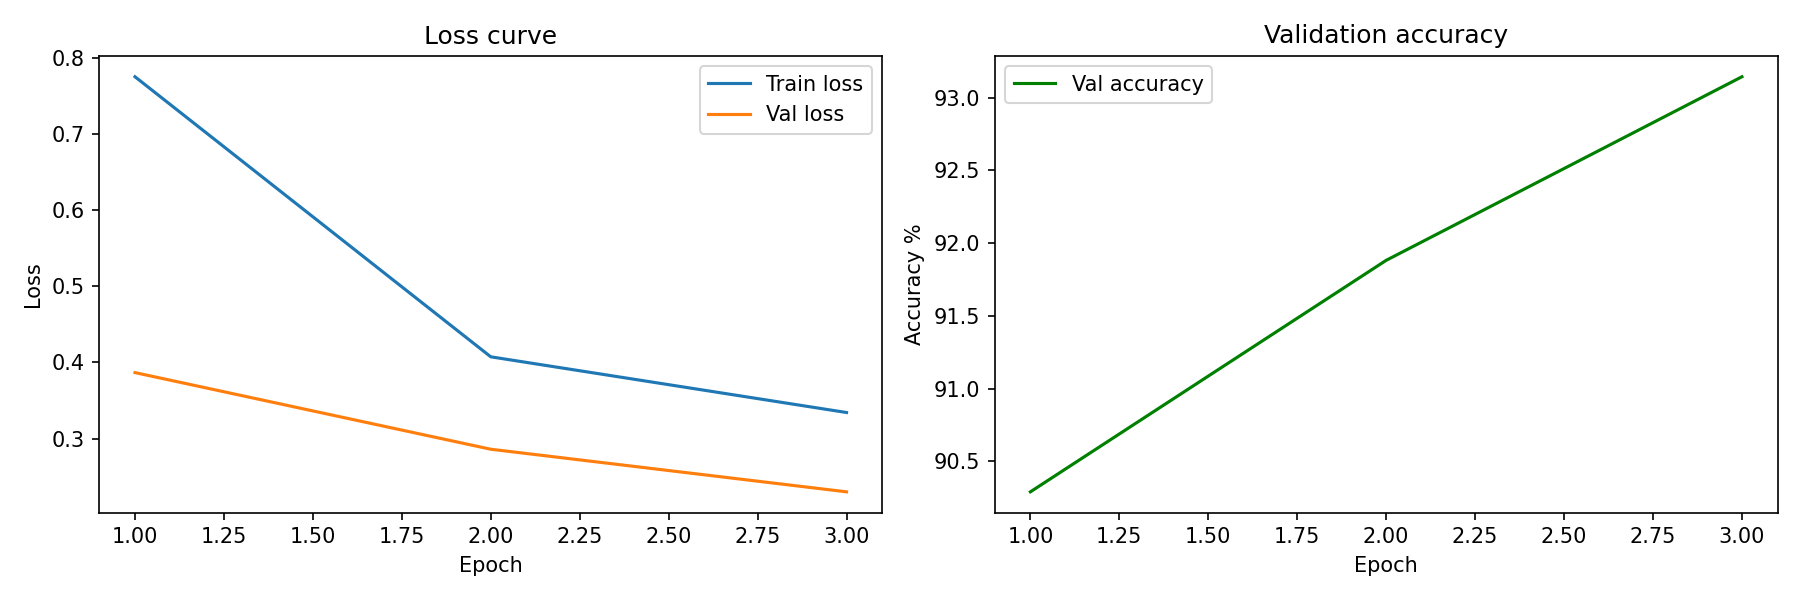
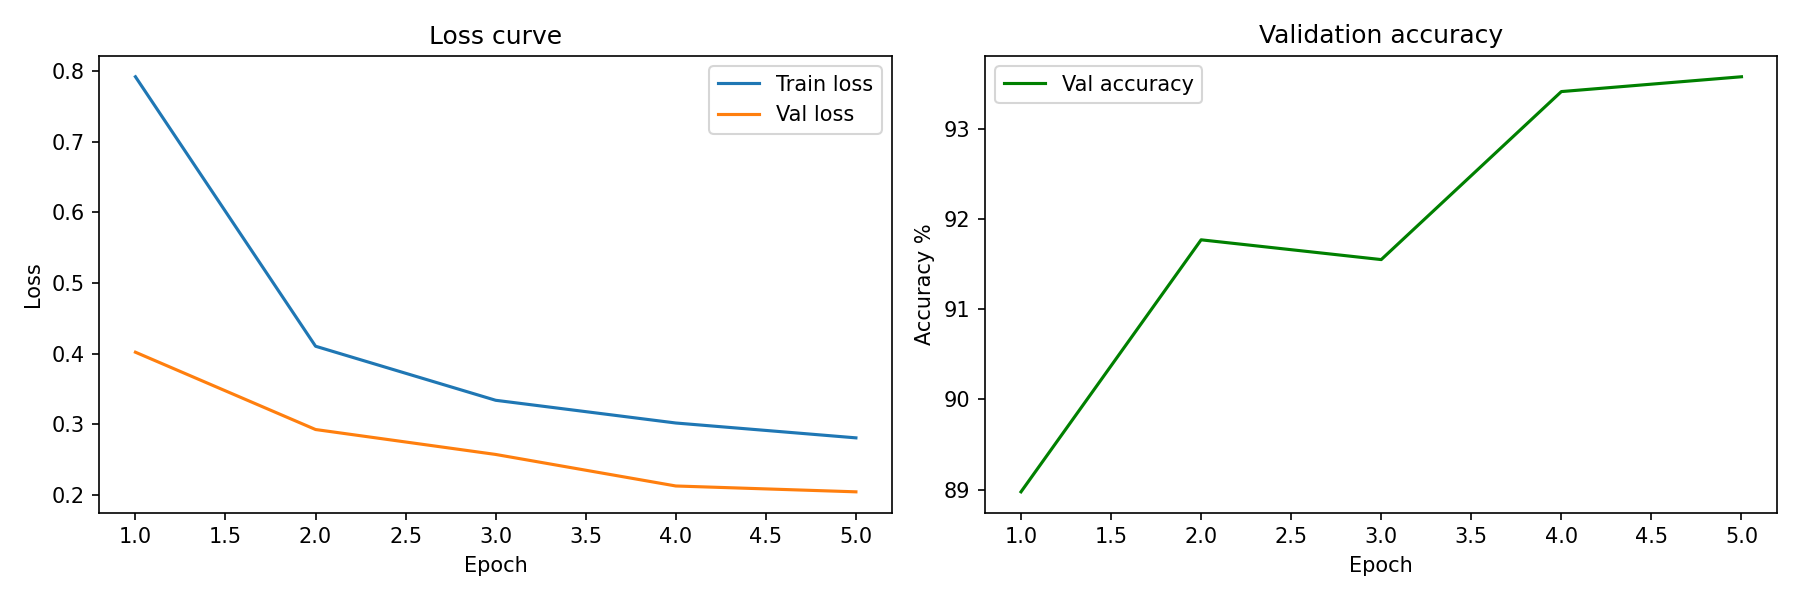
documented and finished

diff --git a/finetune_4/resnet18.py b/finetune_4/resnet18.py
@@ -8,7 +8,7 @@ sys.path.append(os.path.abspath('src'))
 from dataset import train_loader, val_loader
 
 # ── setup ──────────────────────────────────────────────
-EPOCHS     = 3
+EPOCHS     = 5
 LR         = 0.001
 DEVICE     = torch.device("cuda" if torch.cuda.is_available() else "cpu")
 MODEL_DIR  = "models"
